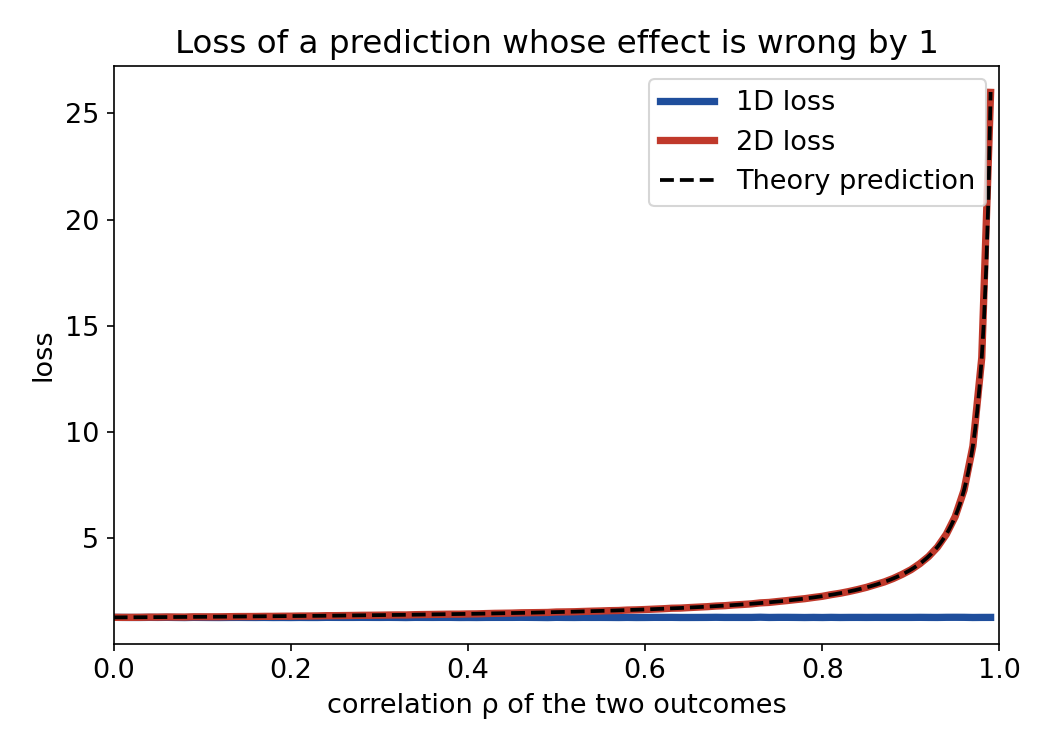
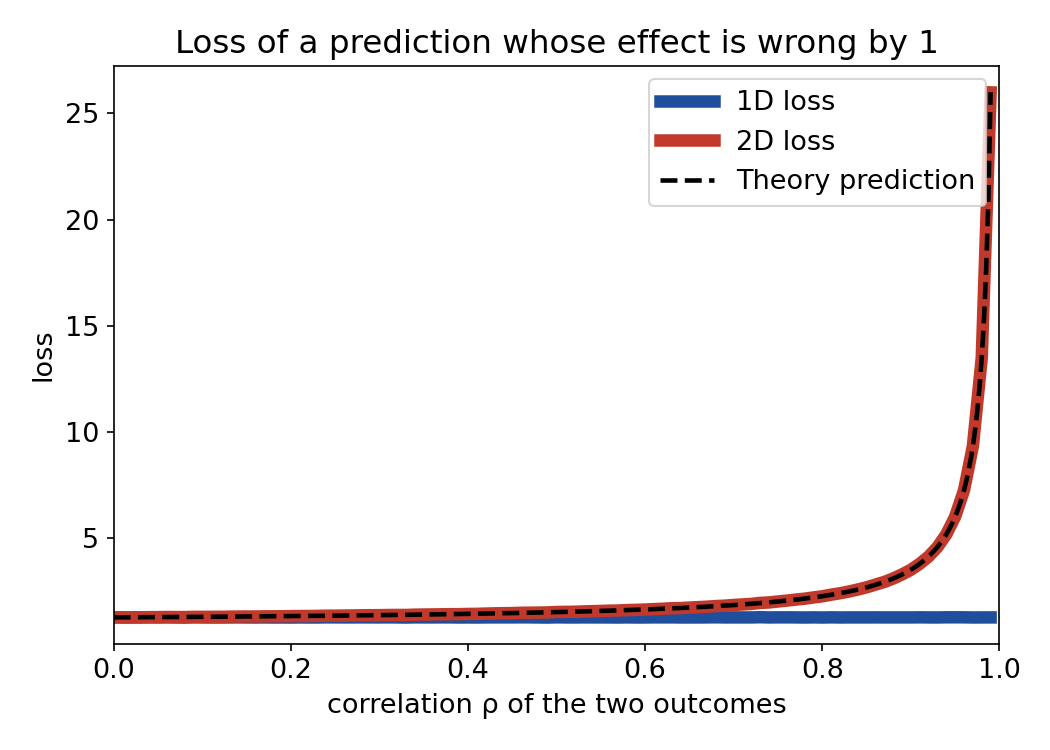
reason figure: both loss lines thick
Claude-Session: https://claude.ai/code/session_01AZV2d6TbWGuV4cMQVAXpNa

Changed region(s): [[0.1219, 0.1227, 0.9752, 0.8587], [0.6095, 0.1227, 0.701, 0.2453]]

diff --git a/revision/theory/loss_geometry/fig_reason.py b/revision/theory/loss_geometry/fig_reason.py
@@ -23,9 +23,9 @@ fine = np.linspace(0, 0.99, 400)
 theory = 1 + (L1.mean() - 1) / (1 - fine)
 plt.rcParams.update({"font.size": 13})
 fig, ax = plt.subplots(figsize=(7, 5))
-ax.plot(rhos, L1, "-", color="#1f4e9c", lw=3.5, label="1D loss")
-ax.plot(rhos, L2, "-", color="#c0392b", lw=3.5, label="2D loss")
-ax.plot(fine, theory, "--", color="k", lw=1.8, label="Theory prediction")
+ax.plot(rhos, L1, "-", color="#1f4e9c", lw=6, label="1D loss")
+ax.plot(rhos, L2, "-", color="#c0392b", lw=6, label="2D loss")
+ax.plot(fine, theory, "--", color="k", lw=2.2, label="Theory prediction")
 ax.set(xlabel="correlation ρ of the two outcomes", ylabel="loss", xlim=(0, 1),
        title="Loss of a prediction whose effect is wrong by 1")
 ax.legend(fontsize=13); fig.tight_layout()
